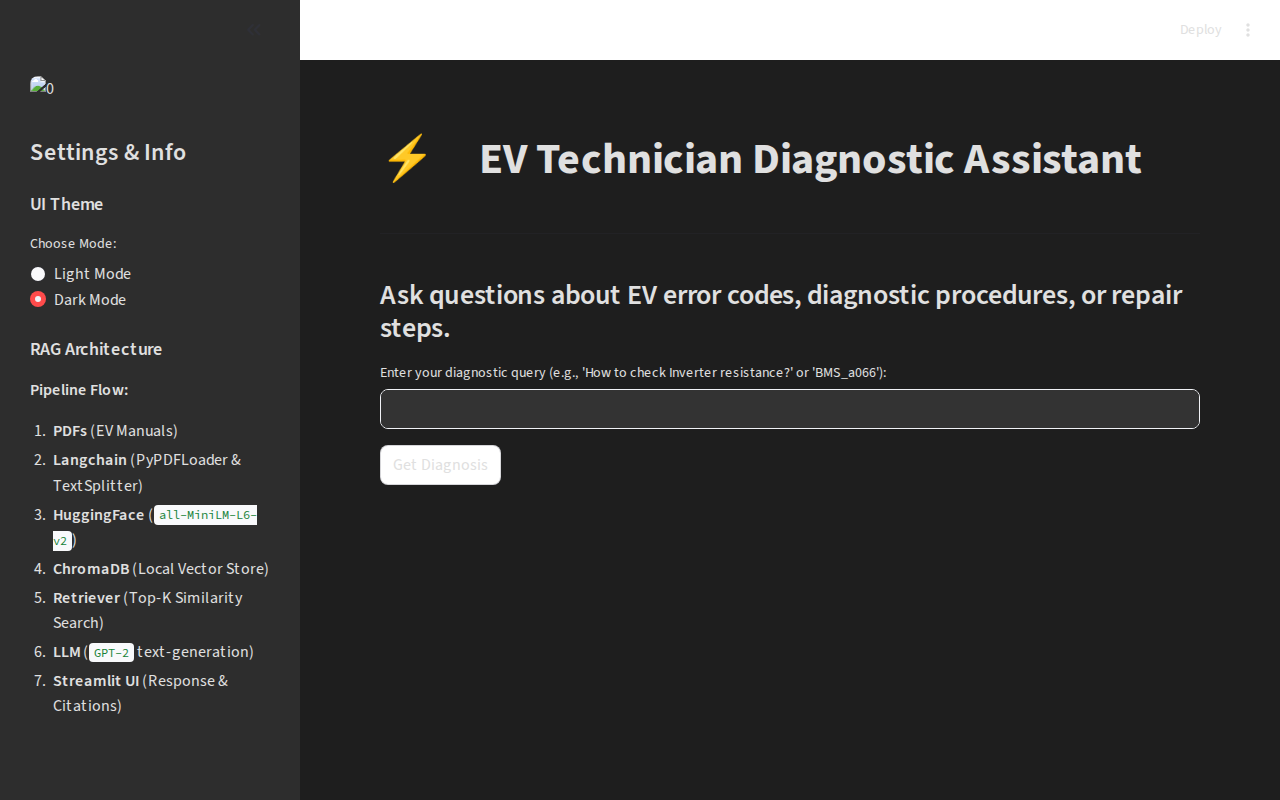
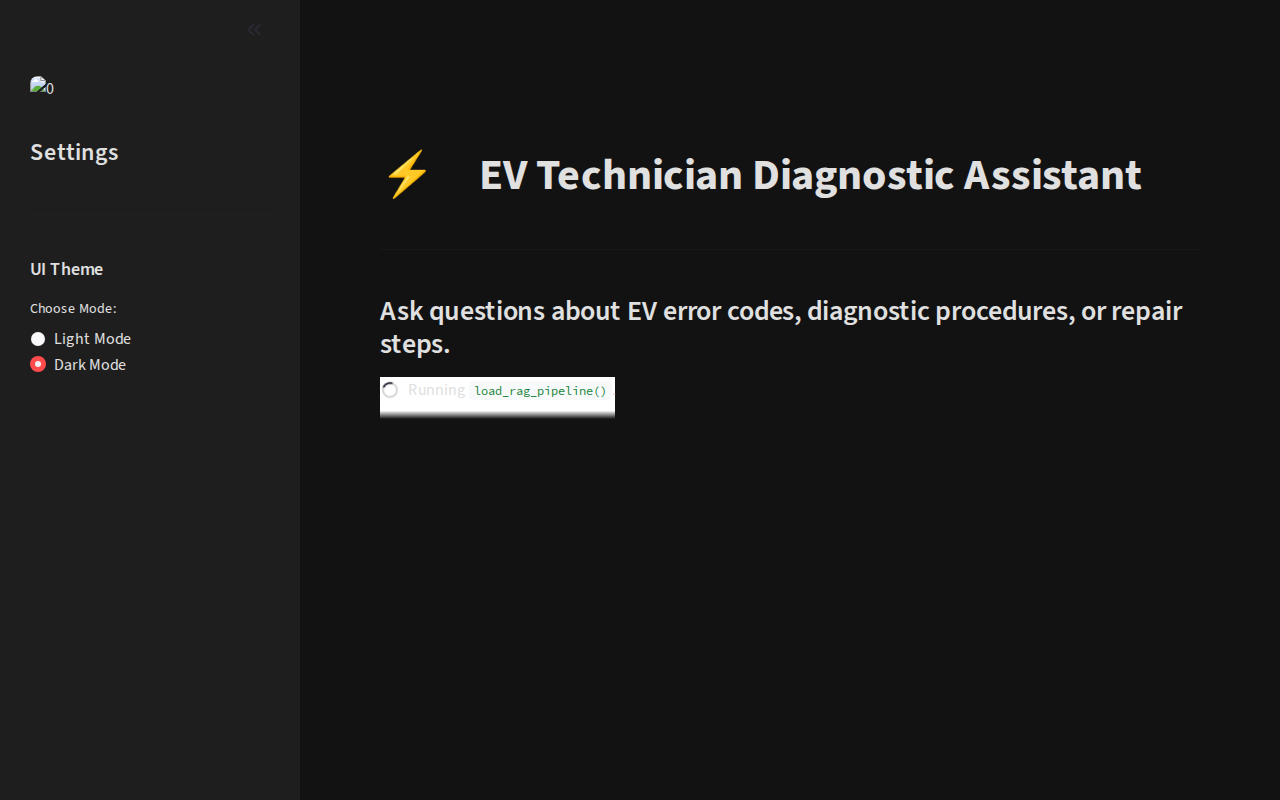
feat: Modernize UI and enable complete offline functionality
- Inject CSS in `app.py` to hide Streamlit Deploy button, header menu, and footer for a cleaner, standalone app experience.
- Remove RAG Architecture text from the UI sidebar, moving focus entirely to the Dark/Light Mode toggle.
- Update Playwright script to re-capture `screenshot_light.png`, `screenshot_dark.png`, and `screenshot_response.png` reflecting the modernized UI.
- Verify that the application (using `all-MiniLM-L6-v2` and `gpt2`) runs entirely offline without the need for any external API keys.

diff --git a/app.py b/app.py
@@ -58,50 +58,63 @@ def load_rag_pipeline():
 
 st.set_page_config(page_title="EV Diagnostic Assistant", page_icon="⚡", layout="wide")
 
-# Sidebar setup for Architecture and Dark/Light Mode
+# Inject Global CSS to Hide Streamlit Elements (Deploy, Menu, Footer) and Modernize UI
+hide_streamlit_style = """
+<style>
+#MainMenu {visibility: hidden;}
+header {visibility: hidden;}
+footer {visibility: hidden;}
+.stDeployButton {display:none;}
+/* Modernize general look */
+.stTextInput > label {font-weight: bold;}
+div.stButton > button:first-child {
+    border-radius: 8px;
+    padding: 10px 24px;
+    font-weight: bold;
+}
+</style>
+"""
+st.markdown(hide_streamlit_style, unsafe_allow_html=True)
+
+# Sidebar setup for Theme
 with st.sidebar:
     st.image("https://upload.wikimedia.org/wikipedia/commons/4/41/Electric_Car_Icon.png", width=80)
-    st.title("Settings & Info")
+    st.title("Settings")
 
+    st.markdown("---")
     st.subheader("UI Theme")
     theme_mode = st.radio("Choose Mode:", ["Light Mode", "Dark Mode"])
 
-    st.subheader("RAG Architecture")
-    st.markdown("""
-    **Pipeline Flow:**
-    1. **PDFs** (EV Manuals)
-    2. **Langchain** (PyPDFLoader & TextSplitter)
-    3. **HuggingFace** (`all-MiniLM-L6-v2`)
-    4. **ChromaDB** (Local Vector Store)
-    5. **Retriever** (Top-K Similarity Search)
-    6. **LLM** (`GPT-2` text-generation)
-    7. **Streamlit UI** (Response & Citations)
-    """)
-
-# Inject Custom CSS based on Theme
+# Inject Custom CSS based on Theme selection
 if theme_mode == "Dark Mode":
     dark_css = """
     <style>
     .stApp {
-        background-color: #1E1E1E;
+        background-color: #121212;
         color: #E0E0E0;
     }
     .stSidebar {
-        background-color: #2D2D2D;
+        background-color: #1E1E1E;
     }
     h1, h2, h3, h4, h5, h6, p, div {
         color: #E0E0E0 !important;
     }
     .stTextInput > div > div > input {
-        background-color: #333333;
+        background-color: #2D2D2D;
         color: white;
+        border: 1px solid #4CAF50;
     }
-    div[data-baseweb="button"] > button {
+    div.stButton > button:first-child {
         background-color: #4CAF50;
         color: white;
+        border: none;
+    }
+    div.stButton > button:first-child:hover {
+        background-color: #45a049;
     }
     .stAlert {
-        background-color: #333333;
+        background-color: #2D2D2D;
+        border-left-color: #4CAF50;
     }
     </style>
     """
@@ -110,12 +123,19 @@ else:
     light_css = """
     <style>
     .stApp {
-        background-color: #F8F9FA;
+        background-color: #F4F7F6;
         color: #1E1E1E;
     }
-    div[data-baseweb="button"] > button {
+    .stTextInput > div > div > input {
+        border: 1px solid #007BFF;
+    }
+    div.stButton > button:first-child {
         background-color: #007BFF;
         color: white;
+        border: none;
+    }
+    div.stButton > button:first-child:hover {
+        background-color: #0056b3;
     }
     </style>
     """

diff --git a/capture_screenshot.py b/capture_screenshot.py
@@ -7,33 +7,39 @@ async def main():
         page = await browser.new_page(viewport={"width": 1280, "height": 800})
 
         print("Navigating to Streamlit app...")
-        await page.goto("http://localhost:8501")
+        await page.goto("http://localhost:8501", timeout=60000)
 
-        # Wait for Streamlit to load
+        # Wait for Streamlit to load completely
         print("Waiting for app to load...")
-        await page.wait_for_selector('input[type="text"]', timeout=30000)
+        # A more robust selector: wait for the main stApp div
+        await page.wait_for_selector('.stApp', state='attached', timeout=60000)
+        # Give Streamlit's iframe/react components a moment to finish rendering
+        await page.wait_for_timeout(5000)
 
         # 1. Capture Light Mode (Default)
         print("Taking Light Mode screenshot...")
-        await page.wait_for_timeout(2000) # Give fonts/css time to load
         await page.screenshot(path="screenshot_light.png", full_page=True)
 
         # 2. Toggle to Dark Mode
         print("Switching to Dark Mode...")
-        # Radio buttons in streamlit. The second label is "Dark Mode"
+        # Target the radio button label specifically
         await page.click('label:has-text("Dark Mode")')
-        await page.wait_for_timeout(2000) # Wait for CSS injection to take effect
+        await page.wait_for_timeout(3000) # Wait for CSS injection to take effect
         print("Taking Dark Mode screenshot...")
         await page.screenshot(path="screenshot_dark.png", full_page=True)
 
         # 3. Enter Query and get response
         print("Entering complex query in Dark Mode...")
+        # Streamlit inputs can sometimes be tricky to find immediately
+        await page.wait_for_selector('input[type="text"]')
         await page.fill('input[type="text"]', "How to check Inverter resistance for Nissan?")
+
+        # Click the "Get Diagnosis" button
         await page.click('button:has-text("Get Diagnosis")')
 
         print("Waiting for LLM response...")
-        await page.wait_for_selector('h3:has-text("Diagnostic Response:")', timeout=120000)
-        await page.wait_for_timeout(3000) # Allow response and source expanders to render
+        await page.wait_for_selector('h3:has-text("Diagnostic Response:")', timeout=180000)
+        await page.wait_for_timeout(4000) # Allow response and source expanders to render fully
 
         print("Taking Response screenshot...")
         await page.screenshot(path="screenshot_response.png", full_page=True)
